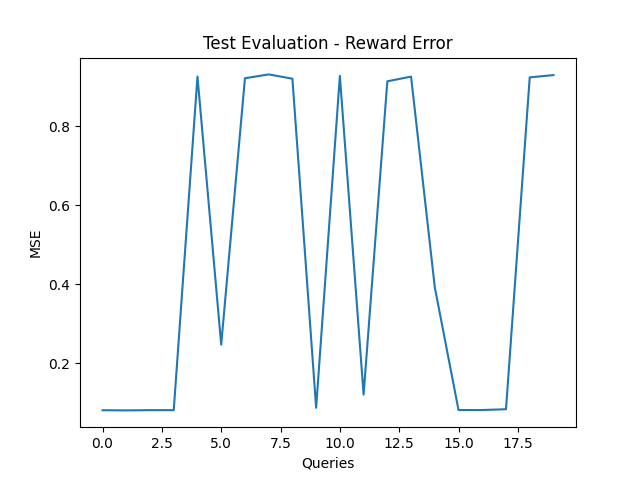
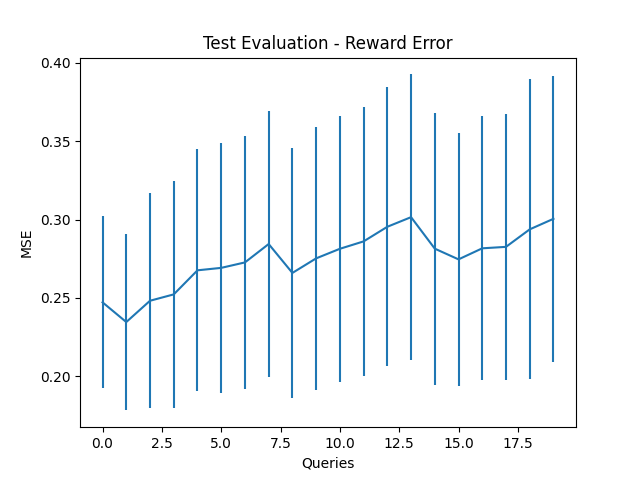
small changes

diff --git a/learner.py b/learner.py
@@ -4,6 +4,7 @@ from torch import optim, nn
 import torch
 import matplotlib.pyplot as plt
 from query.simulate import *
+from tqdm import trange
 
 class Learner:
 
@@ -174,7 +175,7 @@ class Learner:
         # set model to train mode
         self.encoder.train()
 
-        for n in range(self.args.num_iters):
+        for n in trange(self.args.num_iters):
             # get batch of starting queries for iteration
             # same reward used for testing and training
             if self.args.one_reward:
@@ -202,43 +203,36 @@ class Learner:
                 val_answer_seqs[0] = val_answers
 
                 for t in range(self.args.sequence_length):
-
-                    # initialize loss for the iteration
-                    loss = 0
-                    val_loss = 0
-
                     # initialize hidden variables
                     hidden = self.encoder.init_hidden(batchsize=self.args.batchsize)
                     val_hidden = self.encoder.init_hidden(batchsize=self.args.batchsize)
 
-                    for i in range(t+1):
-
-                        # manually handle hidden inputs for gru for sequence
-                        curr_queries = query_seqs[i].unsqueeze(0)
-                        curr_answers = answer_seqs[i].unsqueeze(0)
-                        val_queries = val_query_seqs[i].unsqueeze(0)
-                        val_answers = val_answer_seqs[i].unsqueeze(0)
+                    # manually handle hidden inputs for gru for sequence
+                    query_seq = query_seqs[:(t+1)]
+                    answer_seq = answer_seqs[:(t+1)]
+                    val_query_seq = val_query_seqs[:(t+1)]
+                    val_answer_seq = val_answer_seqs[:(t+1)]
                     
-                        # get beliefs from queries and answers
-                        beliefs, hidden = self.encoder(curr_queries, hidden)
-                        val_beliefs, val_hidden = self.encoder(val_queries, val_hidden)
+                    # get beliefs from queries and answers
+                    beliefs, hidden = self.encoder(query_seq, hidden)
+                    val_beliefs, val_hidden = self.encoder(val_query_seq, val_hidden)
 
-                        # compute predicted response at timestep for each query
-                        inputs = response_dist(self.args, curr_queries, beliefs)
-                        val_inputs = response_dist(self.args, val_queries, val_beliefs)
+                    # compute predicted response at timestep for each query
+                    inputs = response_dist(self.args, query_seq, beliefs)
+                    val_inputs = response_dist(self.args, val_query_seq, val_beliefs)
 
-                        # get inputs and targets for cross entropy loss
-                        inputs = inputs.view(-1, self.args.query_size)
-                        val_inputs = val_inputs.view(-1, self.args.query_size)
-                        targets = curr_answers.view(-1)
-                        val_targets = val_answers.view(-1)
-
-                        # compute loss so far
-                        loss += self.loss(inputs, targets)
-                        val_loss += self.loss(val_inputs, val_targets)
+                    # get inputs and targets for cross entropy loss
+                    inputs = inputs.view(-1, self.args.query_size)
+                    val_inputs = val_inputs.view(-1, self.args.query_size)
+                    targets = answer_seq.view(-1)
+                    val_targets = val_answer_seq.view(-1)
 
                     # optimize over the current sequence
                     self.optimizer.zero_grad()
+
+                    # compute loss
+                    loss = self.loss(inputs, targets)
+                    val_loss = self.loss(val_inputs, val_targets)
 
                     ## NOT SURE IF I SHOULD DO THIS ##
                     # loss /= (t+1)
@@ -254,8 +248,8 @@ class Learner:
                         next_val_queries = self.policy.run_policy(val_query_seqs[t], val_beliefs, self.val_dataset)
 
                         # get next answers (in the case of an actual human, would be replaced with labeling step)
-                        next_answers = sample_dist(self.args, response_dist(self.args, curr_queries, true_humans))
-                        next_val_answers = sample_dist(self.args, response_dist(self.args, val_queries, val_humans))
+                        next_answers = sample_dist(self.args, response_dist(self.args, next_queries, true_humans))
+                        next_val_answers = sample_dist(self.args, response_dist(self.args, next_val_queries, val_humans))
 
                         # add next queries to sequence
                         query_seqs[t+1] = next_queries
@@ -366,7 +360,7 @@ class Learner:
             if self.args.one_reward or self.args.batchsize <= 1:
                 plt.plot(range(len(mses_mean)), mses_mean)
             else:
-                plt.errorbar(range(len(mses_mean)), mses_mean, yerr=mses_std)
+                plt.errorbar(range(len(mses_mean)), mses_mean, yerr=mses_std/(np.sqrt(len(mses_std))))
             plt.xlabel("Queries")
             plt.ylabel("MSE")
             plt.title("Test Evaluation - Reward Error")
@@ -376,7 +370,7 @@ class Learner:
             if self.args.one_reward or self.args.batchsize <= 1:
                 plt.errorbar(range(len(alignments_mean)), alignments_mean)
             else:
-                plt.errorbar(range(len(alignments_mean)), alignments_mean, yerr=alignments_std)
+                plt.errorbar(range(len(alignments_mean)), alignments_mean, yerr=alignments_std/(np.sqrt(len(alignments_std))))
             plt.xlabel("Queries")
             plt.ylabel("Alignment")
             plt.title("Test Evaluation - Reward Alignment")

diff --git a/configs/gridworld.py b/configs/gridworld.py
@@ -42,7 +42,7 @@ def args(rest_args):
     parser.add_argument('--pretrain_iters', type=int, default=1000,
                         help='how many iterations to pretrain the vae')
     parser.add_argument('--lr', type=float, default=.01)
-    parser.add_argument('--batchsize', type=int, default=500,
+    parser.add_argument('--batchsize', type=int, default=100,
                         help='how many queries to use for VAE update')
     parser.add_argument('--sequence_length', type=int, default=20,
                         help='how long a query sequence is for RNN')

diff --git a/models/encoder.py b/models/encoder.py
@@ -16,10 +16,10 @@ class Encoder(nn.Module):
         self.hidden_dim = args.gru_hidden_size
 
         self.fc_input_query = nn.Linear(args.num_features, args.fc_dim)
-        self.fc_input = nn.Linear(args.query_size * args.fc_dim, 32)
+        self.fc_input = nn.Linear(args.query_size * args.fc_dim, 64)
 
         # RNN functionality
-        self.gru = nn.GRU(input_size=32,
+        self.gru = nn.GRU(input_size=64,
                           hidden_size=self.hidden_dim,
                           num_layers=args.gru_hidden_layers)
 

diff --git a/query/simulate.py b/query/simulate.py
@@ -11,9 +11,8 @@ def sample_dist(args, dist):
     return sample
 
 def response_dist(args, query, w):
-    trajs = torch.reshape(query, (-1, args.query_size, args.num_features))
     w = w.unsqueeze(-2)
-    dist = torch.sum(trajs * w, dim=-1)
+    dist = torch.sum(query * w, dim=-1)
     # boltzmann rationality
     dist *= 1/args.temperature
     # return logits, used in sample_dist later (softmax applied then)
